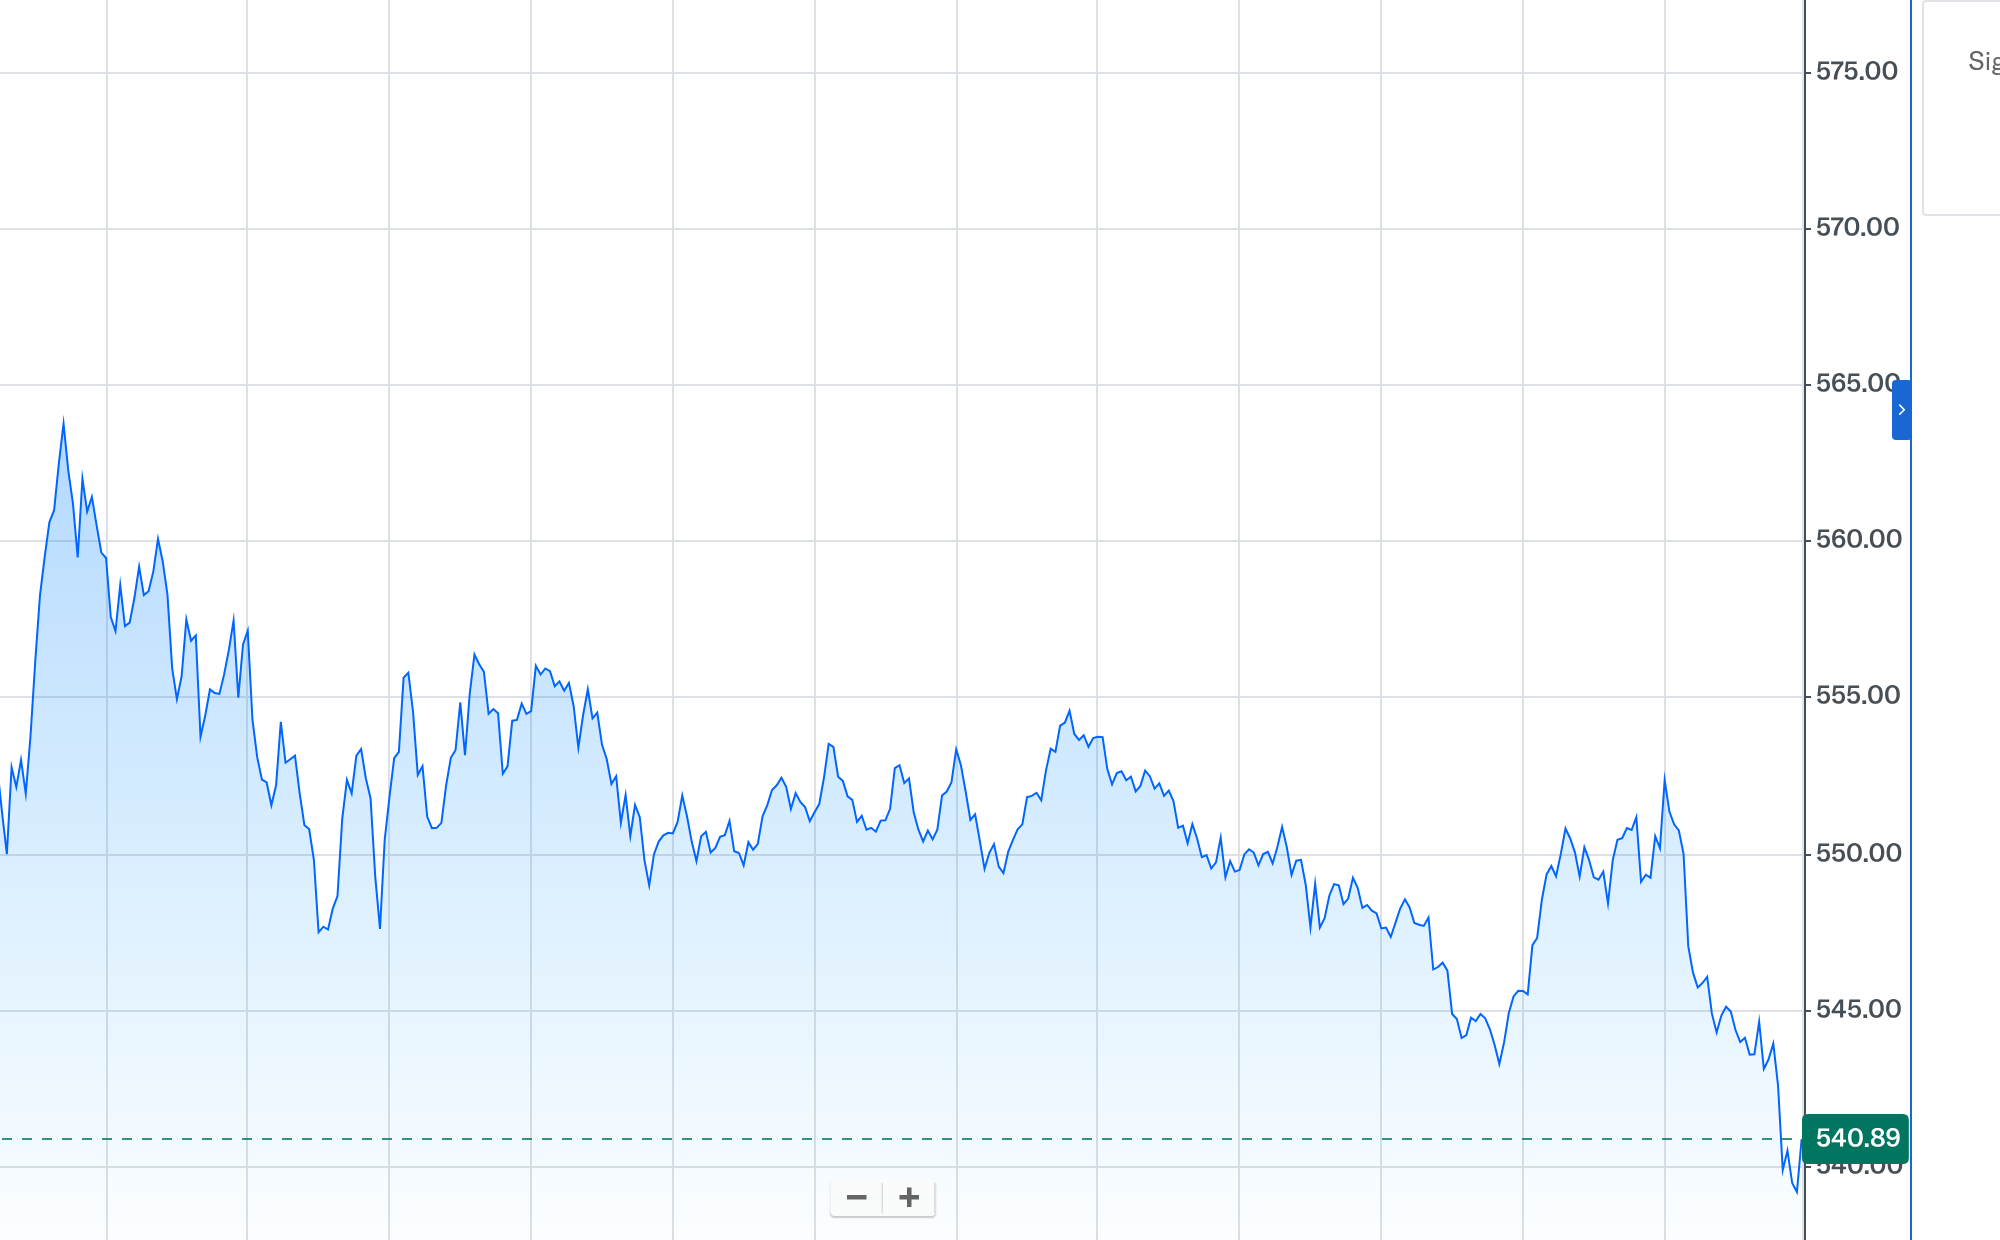
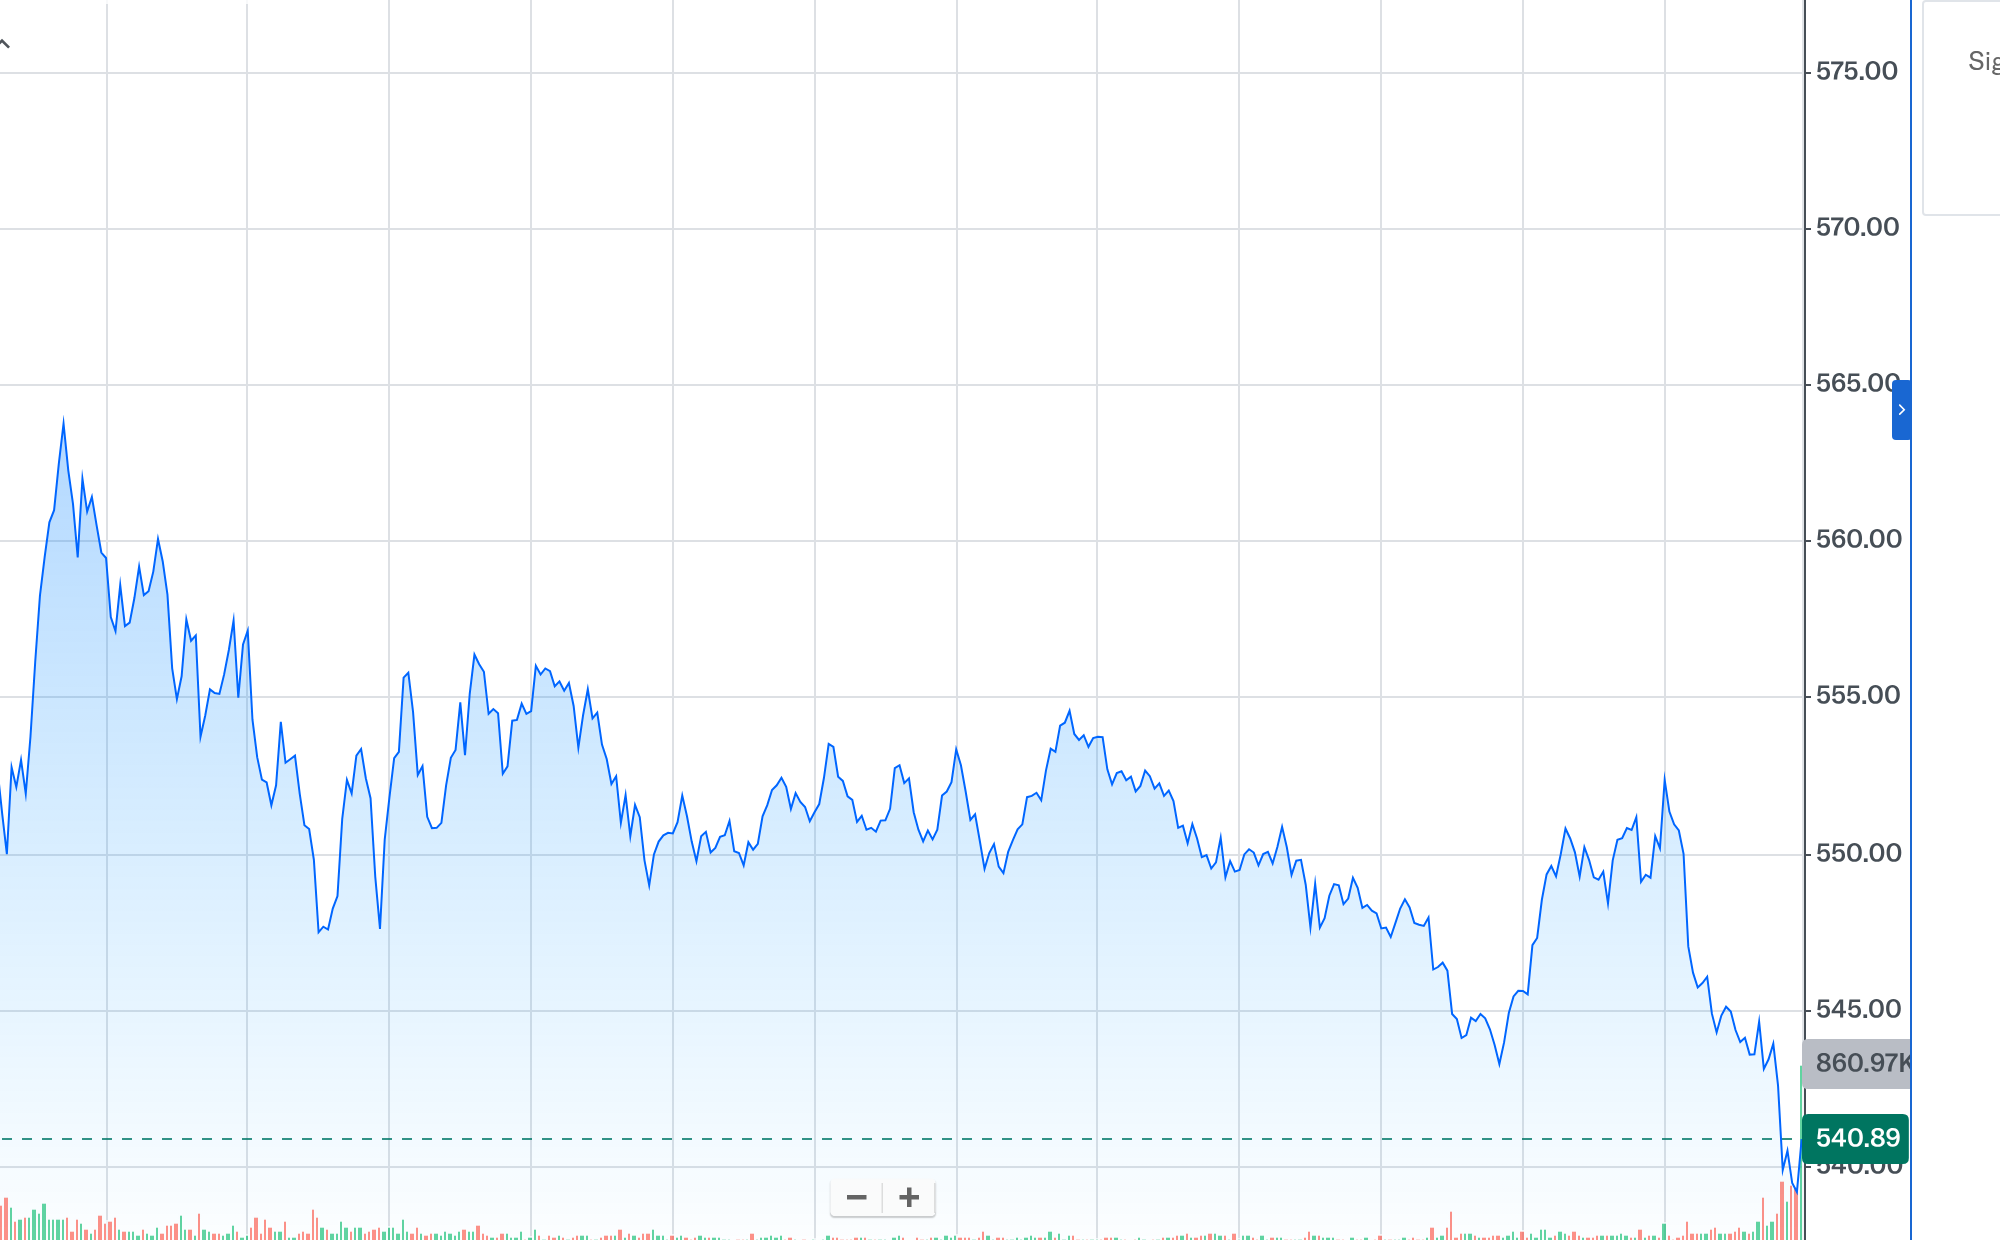
fix: 重抓 NVDA/AMD/AVGO/INTC/WDC 修補 loading spinner + 404 問題

diff --git a/charts/2026-07-02.html b/charts/2026-07-02.html
@@ -41,7 +41,7 @@ body{font-family:-apple-system,BlinkMacSystemFont,"Segoe UI","PingFang TC","Noto
     <div class="sub">40 檔 AI 基礎建設精選股 · 120 個交易日（半年）日 K + 成交量</div>
     <div class="meta">
         <span class="badge">每日 14:00 更新</span>
-        <span class="badge green">3 張 K 線</span>
+        <span class="badge green">4 張 K 線</span>
         <span class="badge purple">點圖連 Yahoo Finance</span>
     </div>
 </div>
@@ -83,10 +83,22 @@ body{font-family:-apple-system,BlinkMacSystemFont,"Segoe UI","PingFang TC","Noto
         </a>
     </div>
 
+
+    <div class="card">
+        <a href="https://finance.yahoo.com/chart/WDC" target="_blank" rel="noopener">
+            <img class="card-img" src="../png/WDC-2026-07-02.png" alt="WDC K 線圖" loading="lazy">
+            <div class="card-meta">
+                <div class="card-ticker">WDC</div>
+                <div class="card-name">Western Digital</div>
+                <div class="card-hint">→ 在 Yahoo Finance 開啟完整 K 線</div>
+            </div>
+        </a>
+    </div>
+
 </div>
 
 <div class="foot">
-    📊 自動產生於 2026-07-02 06:03 UTC<br>
+    📊 自動產生於 2026-07-02 06:05 UTC<br>
     資料來源：<a href="https://finance.yahoo.com" target="_blank">Yahoo Finance</a> · 原始碼 <a href="https://github.com/acstep/stock-charts" target="_blank">github.com/acstep/stock-charts</a>
 </div>
 </div>